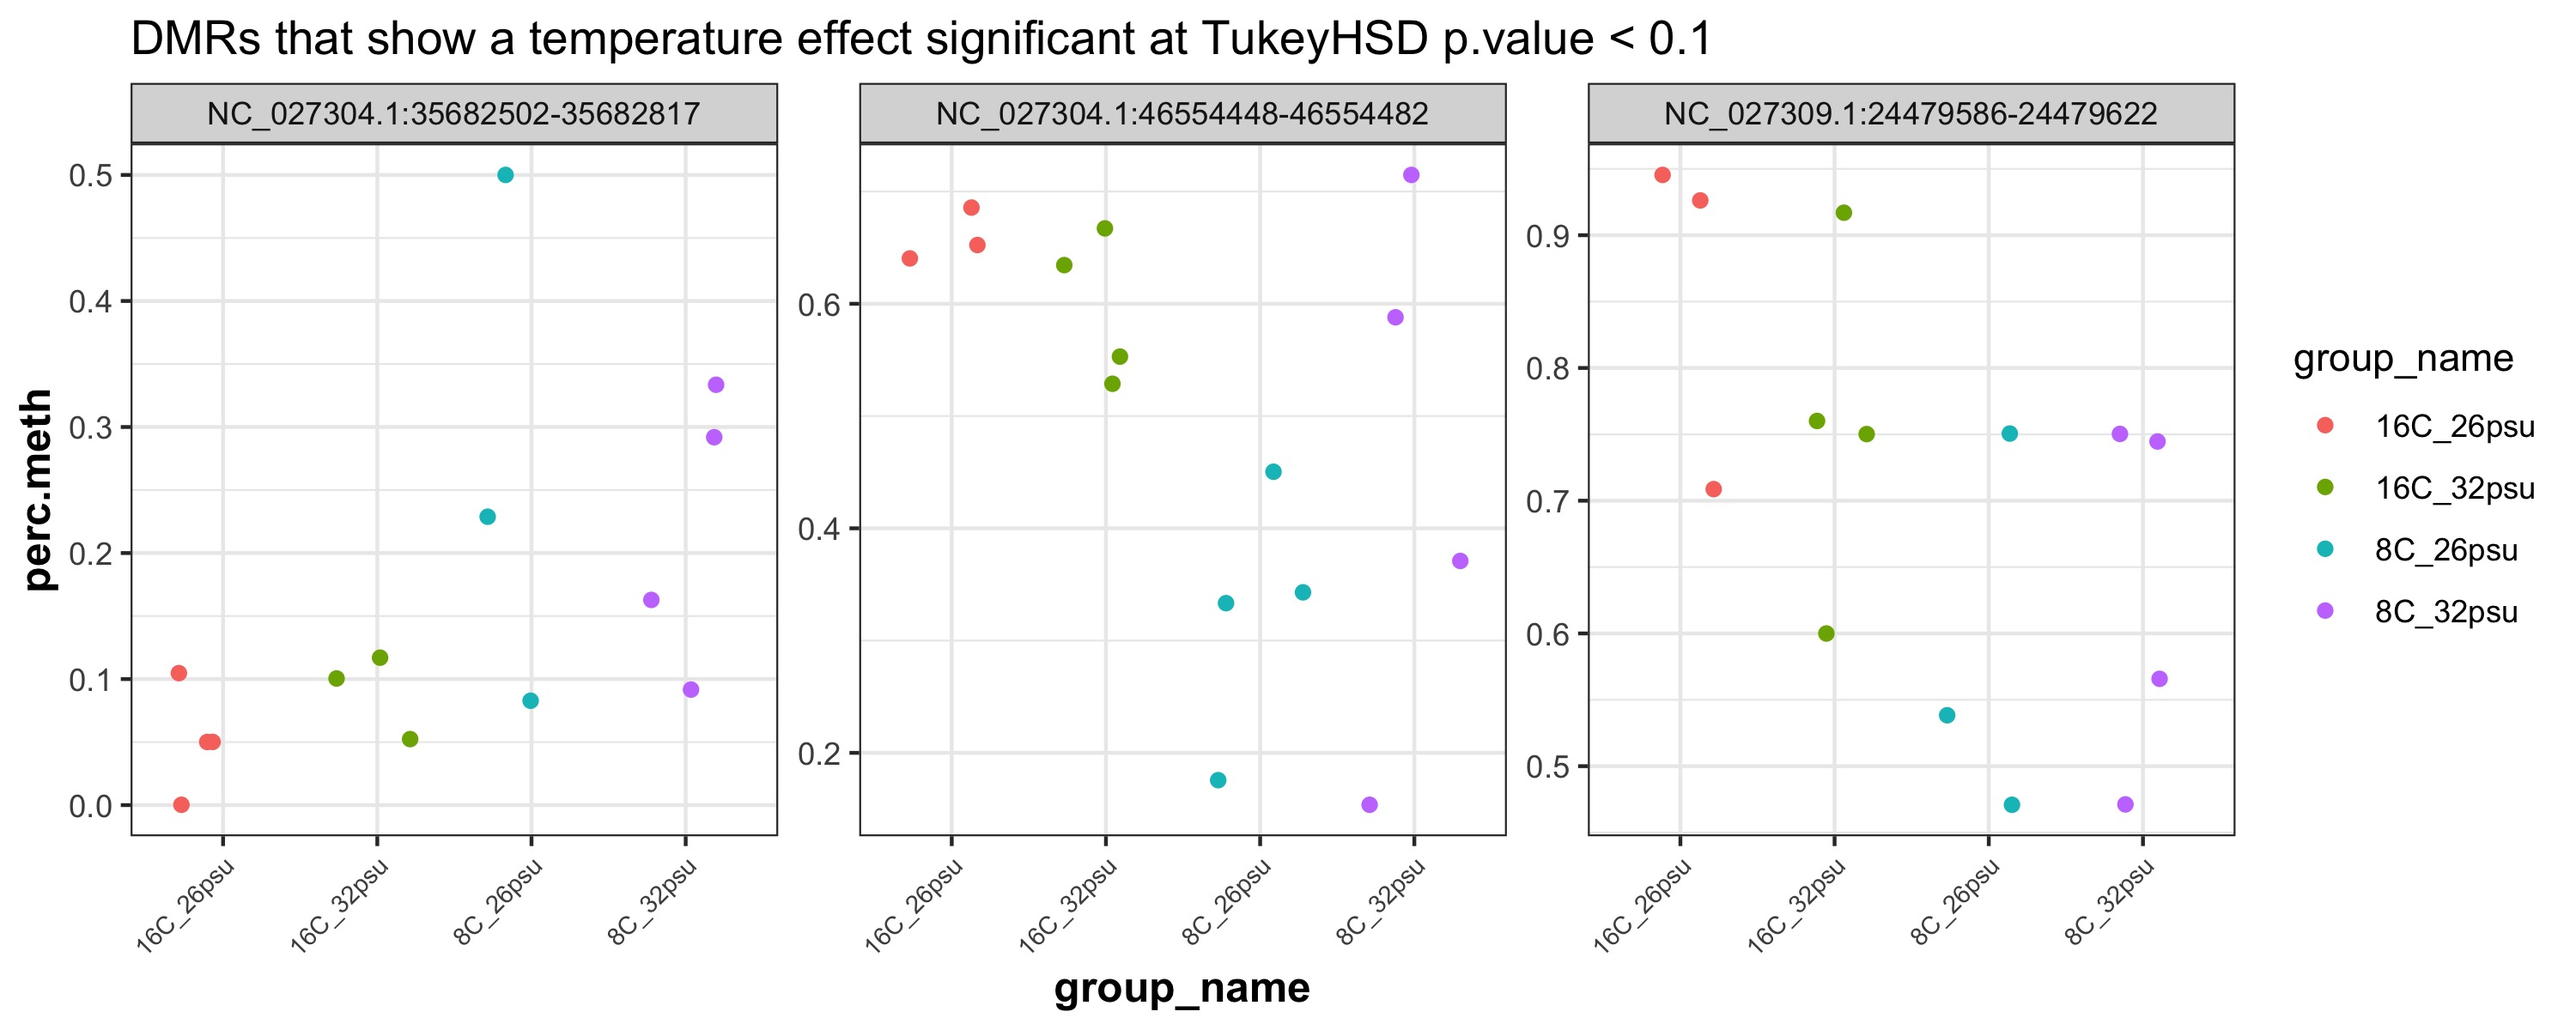
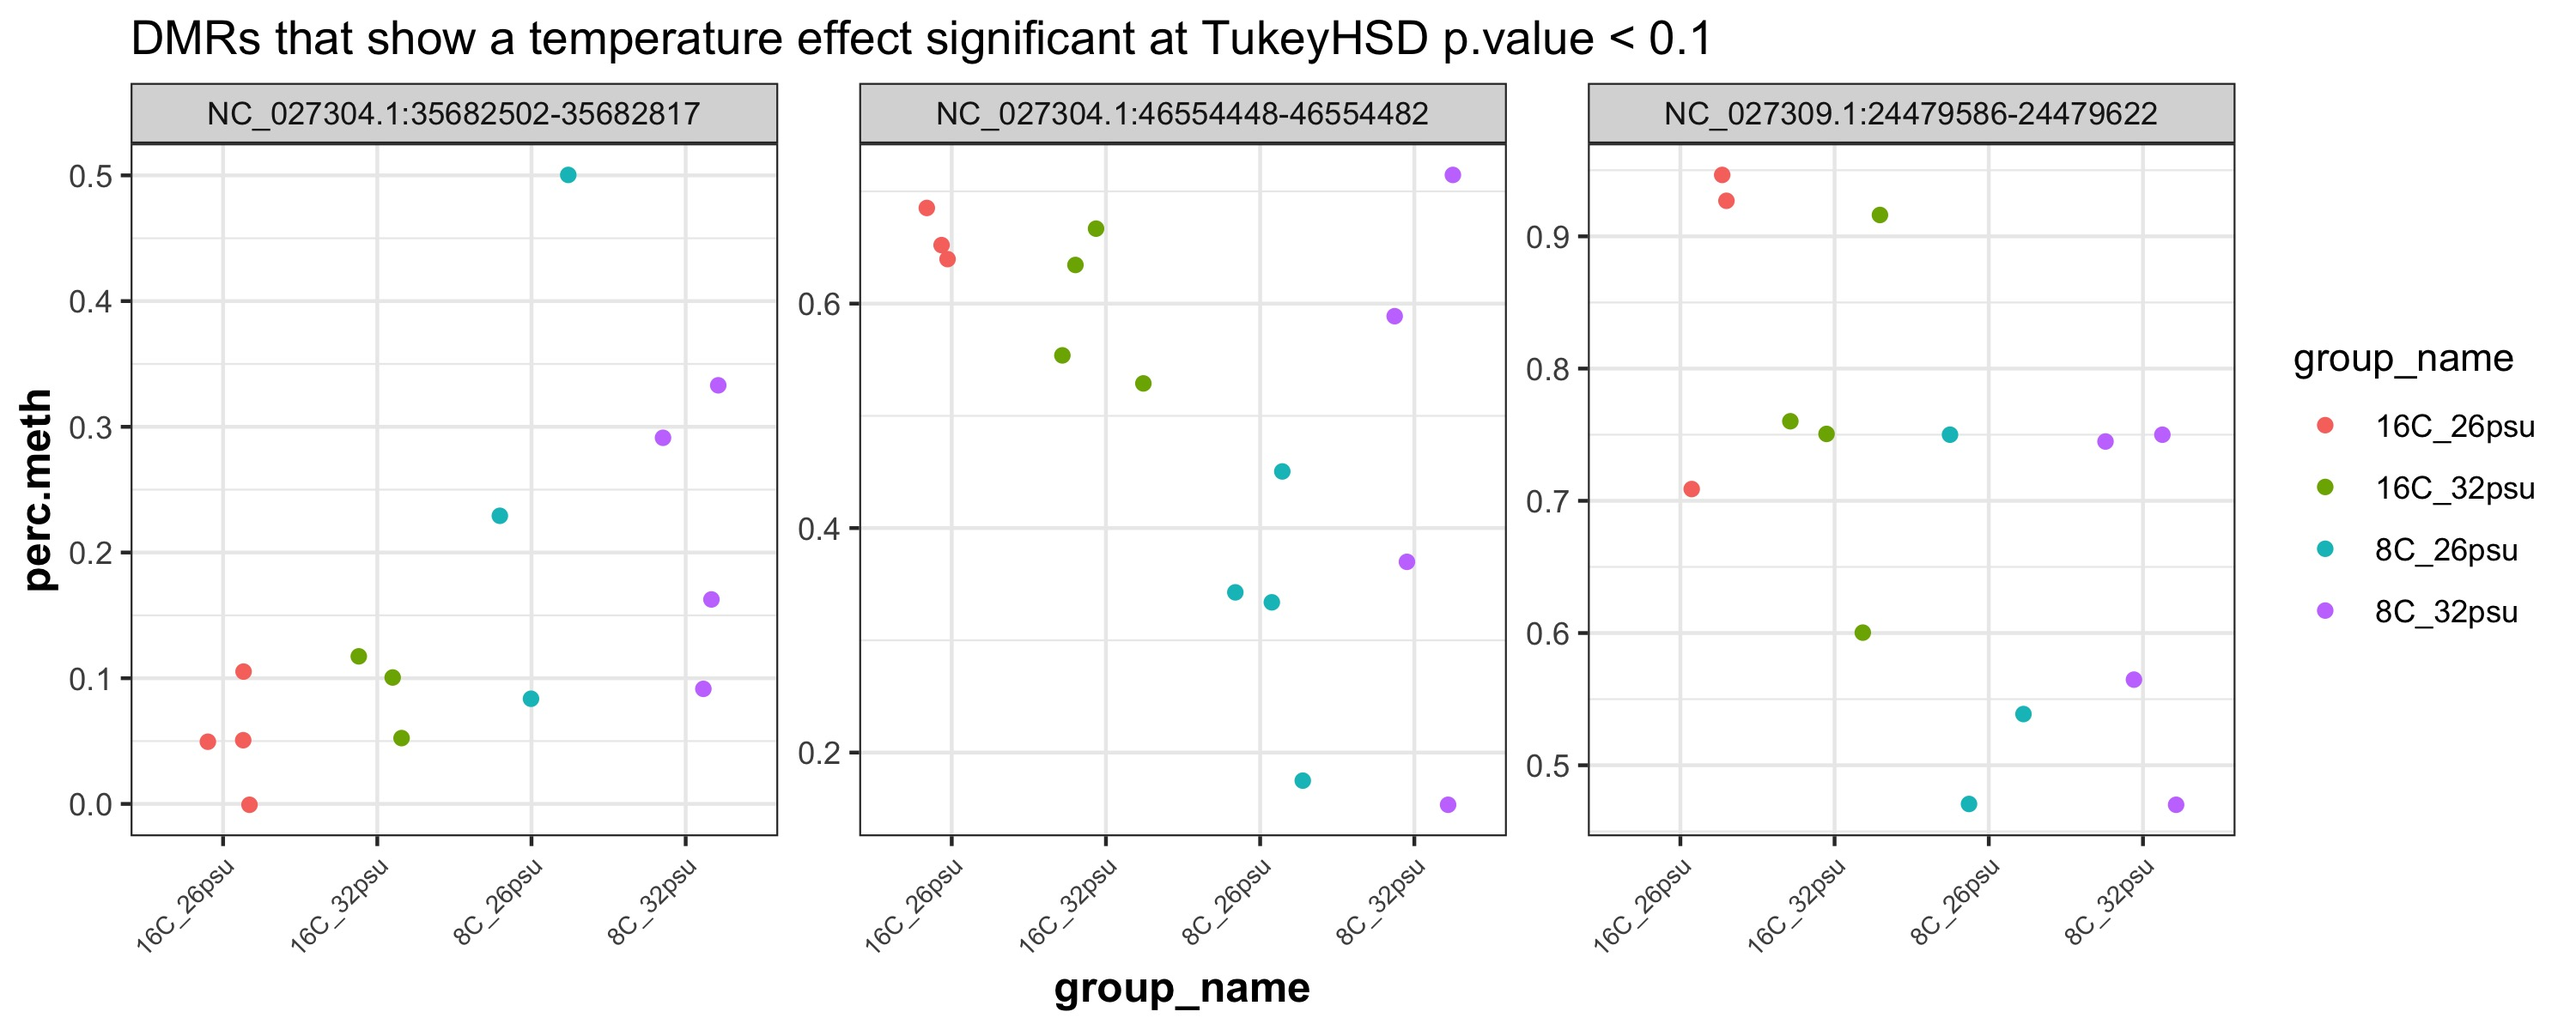
fixed plots again

diff --git a/analyses/MCmax25_asinT_groupStats/MCmax25_asinT_groupStats.html b/analyses/MCmax25_asinT_groupStats/MCmax25_asinT_groupStats.html
@@ -207,9 +207,9 @@ p +<span class="st"> </span><span class="kw">geom_jitter</span>(<span class="dt"
 ##                 2</code></pre>
 <p>plot DMRs with Temp x Salinity interaction effect significant at 0.1 TukHSD</p>
 <pre class="sourceCode r"><code class="sourceCode r"><span class="kw">jpeg</span>(<span class="st">&quot;DMR_MCmax25DMR_Taov0.1TxSPercMeth.jpg&quot;</span>, <span class="dt">width =</span> <span class="dv">10</span>, <span class="dt">height =</span> <span class="dv">4</span>, <span class="dt">units =</span> <span class="st">&quot;in&quot;</span>, <span class="dt">res =</span> <span class="dv">300</span>)
-p &lt;-<span class="st"> </span><span class="kw">ggplot</span>(<span class="dt">data =</span> DMRs_STACKED[<span class="kw">which</span>(DMRs_STACKED$ID %in%<span class="st"> </span><span class="kw">pull</span>(DMR_tuk_TxS_summ[<span class="kw">which</span>(DMR_tuk_TxS_summ$adj.p.value &lt;<span class="st"> </span><span class="fl">0.1</span> &amp;<span class="st"> </span>DMR_tuk_TxS_summ$term ==<span class="st"> &quot;salinity&quot;</span>),],ID) &amp;<span class="st"> </span><span class="kw">substr</span>(DMRs_STACKED$group_name,<span class="dv">1</span>,<span class="dv">4</span>)!=<span class="st">&quot;CTRL&quot;</span>),],<span class="kw">aes</span>(<span class="dt">x =</span> group_name,<span class="dt">y =</span> perc.meth, <span class="dt">color =</span> group_name)) +<span class="st"> </span><span class="kw">facet_wrap</span>(~ID, <span class="dt">scale =</span> <span class="st">&quot;free&quot;</span>) +<span class="st"> </span><span class="kw">theme_bw</span>() +<span class="st"> </span><span class="kw">theme</span>(<span class="dt">axis.text.x =</span> <span class="kw">element_text</span>(<span class="dt">size =</span> <span class="dv">7</span>,<span class="dt">angle =</span> <span class="dv">45</span>, <span class="dt">hjust =</span><span class="dv">1</span>),<span class="dt">axis.title=</span><span class="kw">element_text</span>(<span class="dt">size=</span><span class="dv">12</span>,<span class="dt">face=</span><span class="st">&quot;bold&quot;</span>))
+p &lt;-<span class="st"> </span><span class="kw">ggplot</span>(<span class="dt">data =</span> DMRs_STACKED[<span class="kw">which</span>(DMRs_STACKED$ID %in%<span class="st"> </span><span class="kw">pull</span>(DMR_tuk_TxS_summ[<span class="kw">which</span>(DMR_tuk_TxS_summ$adj.p.value &lt;<span class="st"> </span><span class="fl">0.1</span> &amp;<span class="st"> </span>DMR_tuk_TxS_summ$term ==<span class="st"> &quot;temp:salinity&quot;</span>),],ID) &amp;<span class="st"> </span><span class="kw">substr</span>(DMRs_STACKED$group_name,<span class="dv">1</span>,<span class="dv">4</span>)!=<span class="st">&quot;CTRL&quot;</span>),],<span class="kw">aes</span>(<span class="dt">x =</span> group_name,<span class="dt">y =</span> perc.meth, <span class="dt">color =</span> group_name)) +<span class="st"> </span><span class="kw">facet_wrap</span>(~ID, <span class="dt">scale =</span> <span class="st">&quot;free&quot;</span>) +<span class="st"> </span><span class="kw">theme_bw</span>() +<span class="st"> </span><span class="kw">theme</span>(<span class="dt">axis.text.x =</span> <span class="kw">element_text</span>(<span class="dt">size =</span> <span class="dv">7</span>,<span class="dt">angle =</span> <span class="dv">45</span>, <span class="dt">hjust =</span><span class="dv">1</span>),<span class="dt">axis.title=</span><span class="kw">element_text</span>(<span class="dt">size=</span><span class="dv">12</span>,<span class="dt">face=</span><span class="st">&quot;bold&quot;</span>))
 p +<span class="st"> </span><span class="kw">geom_jitter</span>(<span class="dt">width =</span> <span class="fl">0.3</span>) +<span class="st"> </span><span class="kw">ggtitle</span>(<span class="st">&quot;DMRs that show a temp x salinity effect significant at TukeyHSD p.value &lt; 0.1&quot;</span>)</code></pre>
-<pre><code>## Warning: Removed 7 rows containing missing values (geom_point).</code></pre>
+<pre><code>## Warning: Removed 10 rows containing missing values (geom_point).</code></pre>
 <pre class="sourceCode r"><code class="sourceCode r"><span class="kw">dev.off</span>()</code></pre>
 <pre><code>## quartz_off_screen 
 ##                 2</code></pre>

diff --git a/analyses/MCmax25_asinT_groupStats/MCmax25_asinT_groupStats.md b/analyses/MCmax25_asinT_groupStats/MCmax25_asinT_groupStats.md
@@ -305,11 +305,11 @@ plot DMRs with Temp x Salinity interaction effect significant at 0.1 TukHSD
 
 ``` r
 jpeg("DMR_MCmax25DMR_Taov0.1TxSPercMeth.jpg", width = 10, height = 4, units = "in", res = 300)
-p <- ggplot(data = DMRs_STACKED[which(DMRs_STACKED$ID %in% pull(DMR_tuk_TxS_summ[which(DMR_tuk_TxS_summ$adj.p.value < 0.1 & DMR_tuk_TxS_summ$term == "salinity"),],ID) & substr(DMRs_STACKED$group_name,1,4)!="CTRL"),],aes(x = group_name,y = perc.meth, color = group_name)) + facet_wrap(~ID, scale = "free") + theme_bw() + theme(axis.text.x = element_text(size = 7,angle = 45, hjust =1),axis.title=element_text(size=12,face="bold"))
+p <- ggplot(data = DMRs_STACKED[which(DMRs_STACKED$ID %in% pull(DMR_tuk_TxS_summ[which(DMR_tuk_TxS_summ$adj.p.value < 0.1 & DMR_tuk_TxS_summ$term == "temp:salinity"),],ID) & substr(DMRs_STACKED$group_name,1,4)!="CTRL"),],aes(x = group_name,y = perc.meth, color = group_name)) + facet_wrap(~ID, scale = "free") + theme_bw() + theme(axis.text.x = element_text(size = 7,angle = 45, hjust =1),axis.title=element_text(size=12,face="bold"))
 p + geom_jitter(width = 0.3) + ggtitle("DMRs that show a temp x salinity effect significant at TukeyHSD p.value < 0.1")
 ```
 
-    ## Warning: Removed 7 rows containing missing values (geom_point).
+    ## Warning: Removed 10 rows containing missing values (geom_point).
 
 ``` r
 dev.off()
